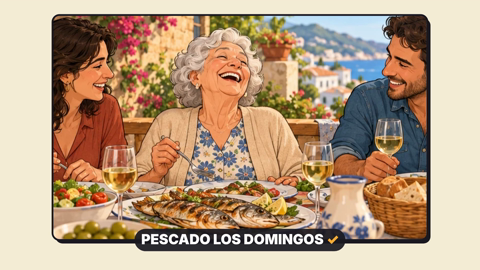
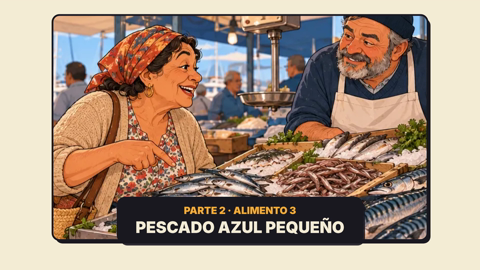
7_alimentos_corazon: fill two empty beats in video 2
Claude-Session: https://claude.ai/code/session_01PWLnAoP8w573gx53iotpZj

diff --git a/projects/7_alimentos_corazon/v2_punto3.html b/projects/7_alimentos_corazon/v2_punto3.html
@@ -103,8 +103,8 @@ scene(svg, () => at('importa'), () => at('semana'), g => {
   const h = Caption(g, 'LA PREPARACIÓN IMPORTA', { cy: 110, size: 56, hi: 'IMPORTA' });
   const f = Chip(g, '+ CALORÍAS · GRASAS DAÑADAS · ACEITE REUTILIZADO', { cx: 1420, cy: 980, size: 26, fill: C.amber });
   return t => {
-    show(h, t, at('importa')); show(a.g, t, at('horno')); show(ma, t, at('horno') + 0.4); show(b.g, t, at('rebozado')); show(mb, t, at('rebozado') + 0.4); show(f, t, at('fritura'));
-    a.st.draw(t, at('horno'), at('semana')); b.st.draw(t, at('rebozado'), at('semana'));
+    show(h, t, at('importa')); show(a.g, t, at('importa') + 0.6); show(ma, t, at('horno')); show(b.g, t, at('importa') + 1.4); show(mb, t, at('rebozado') + 0.4); show(f, t, at('fritura'));
+    a.st.draw(t, at('importa'), at('semana')); b.st.draw(t, at('importa'), at('semana'));
   };
 });
 
@@ -137,7 +137,7 @@ scene(svg, () => at('siguiente'), () => END + 1, g => {
   const a = Mark(g, 'CARNE TODOS LOS DÍAS', false, { cx: 960, cy: 220, size: 52 });
   const b = cut(g, 'lentejas', 960, 560, 440);
   const c = Caption(g, 'UNAS HUMILDES LENTEJAS', { cy: 900, size: 56, hi: 'LENTEJAS' });
-  return t => { show(a, t, at('carne')); pop(b, t, at('carne') + 1, 960, 560); show(c, t, at('lentejas0') + 0.5); };
+  return t => { show(a, t, at('siguiente') + 0.4); pop(b, t, at('siguiente') + 1.2, 960, 560); show(c, t, at('lentejas0') + 0.5); };
 });
 
 scene(svg, () => at('sabias') + 0.3, () => END + 1, g => { FoodStrip(g, 2); });
